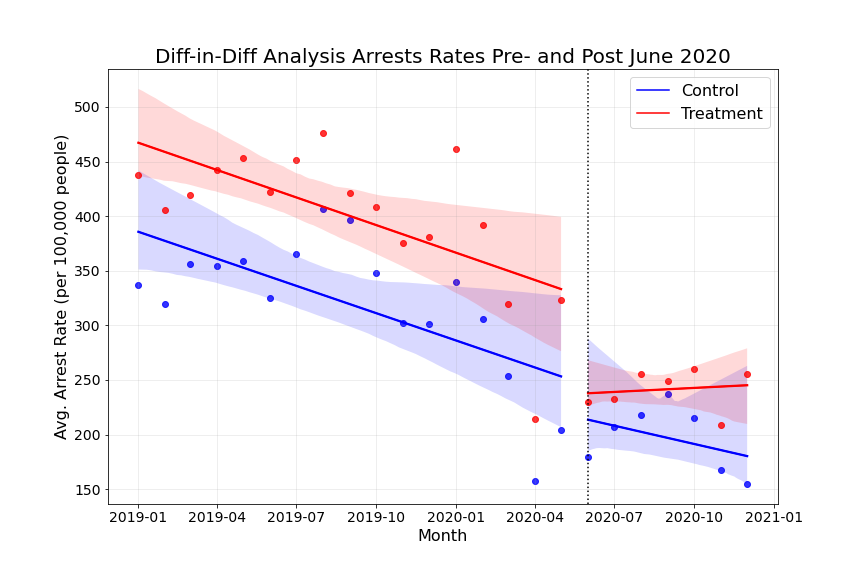
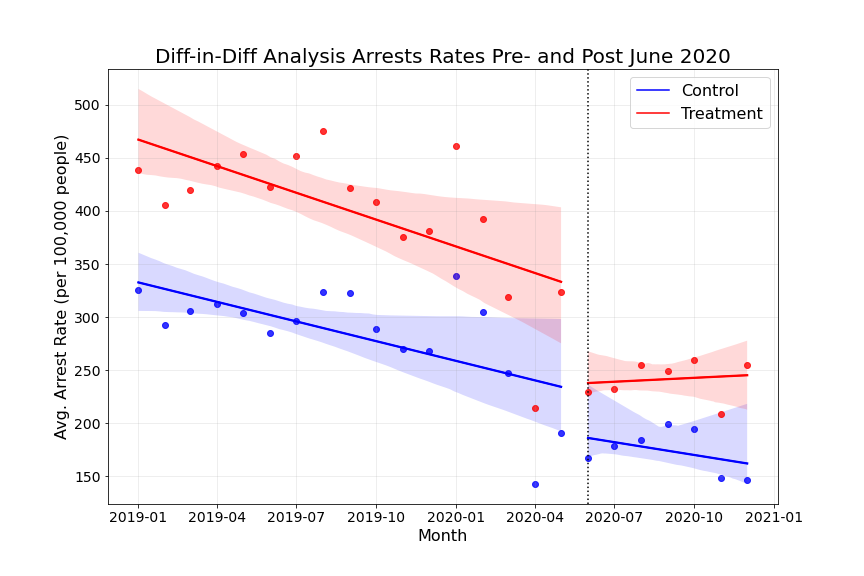
update the violent arrest function

diff --git a/10_code/10_preprocessing.py b/10_code/10_preprocessing.py
@@ -11,12 +11,14 @@ def load_data():
     :return:
     """
     with ZipFile(ARREST_DATA) as zip_file:
-        dfs = {text_file.filename: pd.read_stata(zip_file.open(text_file.filename))
-               for text_file in zip_file.infolist()
-               if text_file.filename.endswith('.dta')}
+        dfs = {
+            text_file.filename: pd.read_stata(zip_file.open(text_file.filename))
+            for text_file in zip_file.infolist()
+            if text_file.filename.endswith(".dta")
+        }
 
-    a_2019 = dfs['ucr_arrests_monthly_all_crimes_race_sex_2019.dta'].copy()
-    a_2020 = dfs['ucr_arrests_monthly_all_crimes_race_sex_2020.dta'].copy()
+    a_2019 = dfs["ucr_arrests_monthly_all_crimes_race_sex_2019.dta"].copy()
+    a_2020 = dfs["ucr_arrests_monthly_all_crimes_race_sex_2020.dta"].copy()
 
     return a_2019, a_2020
 
@@ -43,7 +45,7 @@ def match_columns(df1, df2):
         raise ValueError("Take a look! The dataframes are out of shape!")
 
 
-def filter_by_state_concat(df1, df2, state='CO'):
+def filter_by_state_concat(df1, df2, state="CO"):
     """
 
     :return:
@@ -58,11 +60,19 @@ def filter_columns(col_type: str, df):
 
     :return:
     """
-    violent_crime_c = ['agg_assault_tot', 'arson_tot', 'burglary_tot',
-                       'manslaught_neg_tot', 'murder_tot', 'oth_assault_tot',
-                       'oth_sex_off_tot', 'rape_tot', 'robbery_tot']
-    cols = [col for col in df.columns if col.endswith('tot_' + col_type)]
-    violent_s = [i + '_' + col_type for i in violent_crime_c]
+    violent_crime_c = [
+        "agg_assault_tot",
+        "arson_tot",
+        "burglary_tot",
+        "manslaught_neg_tot",
+        "murder_tot",
+        "oth_assault_tot",
+        "oth_sex_off_tot",
+        "rape_tot",
+        "robbery_tot",
+    ]
+    cols = [col for col in df.columns if col.endswith("tot_" + col_type)]
+    violent_s = [i + "_" + col_type for i in violent_crime_c]
     non_violent_columns = list(set(cols).difference(set(violent_s)))
     return non_violent_columns
 
@@ -70,37 +80,46 @@ def filter_columns(col_type: str, df):
 def data_with_relevant_columns(df):
     all_cols = df.columns.to_list()
     general_cols = all_cols[:14]
-    categories = ['arrests', 'black', 'white', 'asian', 'male', 'female', 'amer_ind']
+    categories = ["arrests", "black", "white", "asian", "male", "female", "amer_ind"]
     relevant_cols = general_cols
     for cat in categories:
         col = filter_columns(cat, df)
         relevant_cols += col
     return df[relevant_cols]
 
+
 ## Specific for violent arrests
 def filter_columns_violent(col_type: str, df):
     """
     :return:
     """
-    violent_crime_c = ['agg_assault_tot', 'arson_tot', 'burglary_tot',
-                       'manslaught_neg_tot', 'murder_tot', 'oth_assault_tot',
-                       'oth_sex_off_tot', 'rape_tot', 'robbery_tot']
-    cols = [col for col in df.columns if col.endswith('tot_' + col_type)]
-    violent_s = [i + '_' + col_type for i in violent_crime_c]
+    violent_crime_c = [
+        "agg_assault_tot",
+        "arson_tot",
+        "burglary_tot",
+        "manslaught_neg_tot",
+        "murder_tot",
+        "oth_assault_tot",
+        "oth_sex_off_tot",
+        "rape_tot",
+        "robbery_tot",
+    ]
+    cols = [col for col in df.columns if col.endswith("tot_" + col_type)]
+    violent_s = [i + "_" + col_type for i in violent_crime_c]
     non_violent_columns = list(set(cols).difference(set(violent_s)))
     return violent_s
 
-## Specific for violent arrests 
+
+## Specific for violent arrests
 def data_with_relevant_columns_violent(df):
     all_cols = df.columns.to_list()
     general_cols = all_cols[:14]
-    categories = ['arrests', 'black', 'white', 'asian', 'male', 'female', 'amer_ind']
+    categories = ["arrests", "black", "white", "asian", "male", "female", "amer_ind"]
     relevant_cols = general_cols
     for cat in categories:
         col = filter_columns_violent(cat, df)
         relevant_cols += col
     return df[relevant_cols]
-
 
 
 def population(df, group1, group2, save=False):
@@ -112,11 +131,12 @@ def population(df, group1, group2, save=False):
     :param group2:
     :return:
     """
-    population_data = (df
-                       .groupby(group1, as_index=False)['population']
-                       .max()
-                       .groupby(group2, as_index=False)[['population']]
-                       .sum())
+    population_data = (
+        df.groupby(group1, as_index=False)["population"]
+        .max()
+        .groupby(group2, as_index=False)[["population"]]
+        .sum()
+    )
     if save:
         population_data.to_csv("../20_intermediate_files/population.csv", index=False)
     return population_data
@@ -138,98 +158,182 @@ def create_new_columns(df):
     non_violent_female = filter_columns("female", df)
 
     # Add date column for easier filtering by date
-    df['year'] = df['year'].astype(str)
-    df['day'] = "01"
-    df['month'] = df.month.str.capitalize()
-    df['date'] = pd.to_datetime(df.year + "-" + df.month +
-                                "-" + df.day, format="%Y-%B-%d")
+    df["year"] = df["year"].astype(str)
+    df["day"] = "01"
+    df["month"] = df.month.str.capitalize()
+    df["date"] = pd.to_datetime(
+        df.year + "-" + df.month + "-" + df.day, format="%Y-%B-%d"
+    )
     df.drop("day", axis=1, inplace=True)
 
     # Sum over all non violent crimes:
-    df['grand_total_arrests'] = np.sum(merged[non_violent_arrests], axis=1)
-    df['grand_total_black'] = np.sum(merged[non_violent_black], axis=1)
-    df['grand_total_white'] = np.sum(merged[non_violent_white], axis=1)
-    df['grand_total_asian'] = np.sum(merged[non_violent_asian], axis=1)
-    df['grand_total_amer_ind'] = np.sum(merged[non_violent_amer_ind], axis=1)
-    df['grand_total_male'] = np.sum(merged[non_violent_male], axis=1)
-    df['grand_total_female'] = np.sum(merged[non_violent_female], axis=1)
+    df["grand_total_arrests"] = np.sum(merged[non_violent_arrests], axis=1)
+    df["grand_total_black"] = np.sum(merged[non_violent_black], axis=1)
+    df["grand_total_white"] = np.sum(merged[non_violent_white], axis=1)
+    df["grand_total_asian"] = np.sum(merged[non_violent_asian], axis=1)
+    df["grand_total_amer_ind"] = np.sum(merged[non_violent_amer_ind], axis=1)
+    df["grand_total_male"] = np.sum(merged[non_violent_male], axis=1)
+    df["grand_total_female"] = np.sum(merged[non_violent_female], axis=1)
 
     # Crime rate:
-    df['arrest_rate_gt_arrests'] = (df['grand_total_arrests'] / df['population'] * 100_000)
-    df['arrest_rate_gt_black'] = (df['grand_total_black'] / df['population'] * 100_000)
-    df['arrest_rate_gt_white'] = (df['grand_total_white'] / df['population'] * 100_000)
-    df['arrest_rate_gt_asian'] = (df['grand_total_asian'] / df['population'] * 100_000)
-    df['arrest_rate_gt_amer_ind'] = (df['grand_total_amer_ind'] / df['population'] * 100_000)
-    df['arrest_rate_gt_male'] = (df['grand_total_male'] / df['population'] * 100_000)
-    df['arrest_rate_gt_female'] = (df['grand_total_female'] / df['population'] * 100_000)
+    df["arrest_rate_gt_arrests"] = (
+        df["grand_total_arrests"] / df["population"] * 100_000
+    )
+    df["arrest_rate_gt_black"] = df["grand_total_black"] / df["population"] * 100_000
+    df["arrest_rate_gt_white"] = df["grand_total_white"] / df["population"] * 100_000
+    df["arrest_rate_gt_asian"] = df["grand_total_asian"] / df["population"] * 100_000
+    df["arrest_rate_gt_amer_ind"] = (
+        df["grand_total_amer_ind"] / df["population"] * 100_000
+    )
+    df["arrest_rate_gt_male"] = df["grand_total_male"] / df["population"] * 100_000
+    df["arrest_rate_gt_female"] = df["grand_total_female"] / df["population"] * 100_000
 
     # Drop redundant columns:
-    df.drop(non_violent_arrests + non_violent_black +
-            non_violent_asian + non_violent_male +
-            non_violent_female + non_violent_white +
-            non_violent_amer_ind,
-            axis=1, inplace=True)
+    df.drop(
+        non_violent_arrests
+        + non_violent_black
+        + non_violent_asian
+        + non_violent_male
+        + non_violent_female
+        + non_violent_white
+        + non_violent_amer_ind,
+        axis=1,
+        inplace=True,
+    )
 
     # Add post treatment and treatment columns:
     post_treatment = "2020-June-01"
     treatment_group = "08031"
-    condition1 = df['date'] >= post_treatment
-    condition2 = df['fips_state_county_code'] == treatment_group
-    df['post_treatment'] = np.where(condition1, 1, 0)
-    df['treatment'] = np.where(condition2, 1, 0)
+    condition1 = df["date"] >= post_treatment
+    condition2 = df["fips_state_county_code"] == treatment_group
+    df["post_treatment"] = np.where(condition1, 1, 0)
+    df["treatment"] = np.where(condition2, 1, 0)
     return df
 
 
-if __name__ == '__main__':
+def create_new_columns_vio(df):
+    """
+    :param df:
+    :return:
+    """
+    # Lists of non-violent crimes per demographic group:
+    non_violent_arrests = filter_columns_violent("arrests", df)
+    non_violent_black = filter_columns_violent("black", df)
+    non_violent_white = filter_columns_violent("white", df)
+    non_violent_asian = filter_columns_violent("asian", df)
+    non_violent_amer_ind = filter_columns_violent("amer_ind", df)
+    non_violent_male = filter_columns_violent("male", df)
+    non_violent_female = filter_columns_violent("female", df)
+
+    # Add date column for easier filtering by date
+    df["year"] = df["year"].astype(str)
+    df["day"] = "01"
+    df["month"] = df.month.str.capitalize()
+    df["date"] = pd.to_datetime(
+        df.year + "-" + df.month + "-" + df.day, format="%Y-%B-%d"
+    )
+    df.drop("day", axis=1, inplace=True)
+
+    # Sum over all non violent crimes:
+    df["grand_total_arrests"] = np.sum(df[non_violent_arrests], axis=1)
+    df["grand_total_black"] = np.sum(df[non_violent_black], axis=1)
+    df["grand_total_white"] = np.sum(df[non_violent_white], axis=1)
+    df["grand_total_asian"] = np.sum(df[non_violent_asian], axis=1)
+    df["grand_total_amer_ind"] = np.sum(df[non_violent_amer_ind], axis=1)
+    df["grand_total_male"] = np.sum(df[non_violent_male], axis=1)
+    df["grand_total_female"] = np.sum(df[non_violent_female], axis=1)
+
+    # Crime rate:
+    df["arrest_rate_gt_arrests"] = (
+        df["grand_total_arrests"] / df["population"] * 100_000
+    )
+    df["arrest_rate_gt_black"] = df["grand_total_black"] / df["population"] * 100_000
+    df["arrest_rate_gt_white"] = df["grand_total_white"] / df["population"] * 100_000
+    df["arrest_rate_gt_asian"] = df["grand_total_asian"] / df["population"] * 100_000
+    df["arrest_rate_gt_amer_ind"] = (
+        df["grand_total_amer_ind"] / df["population"] * 100_000
+    )
+    df["arrest_rate_gt_male"] = df["grand_total_male"] / df["population"] * 100_000
+    df["arrest_rate_gt_female"] = df["grand_total_female"] / df["population"] * 100_000
+
+    # Drop redundant columns:
+    df.drop(
+        non_violent_arrests
+        + non_violent_black
+        + non_violent_asian
+        + non_violent_male
+        + non_violent_female
+        + non_violent_white
+        + non_violent_amer_ind,
+        axis=1,
+        inplace=True,
+    )
+
+    # Add post treatment and treatment columns:
+    post_treatment = "2020-June-01"
+    treatment_group = "08031"
+    condition1 = df["date"] >= post_treatment
+    condition2 = df["fips_state_county_code"] == treatment_group
+    df["post_treatment"] = np.where(condition1, 1, 0)
+    df["treatment"] = np.where(condition2, 1, 0)
+    return df
+
+
+if __name__ == "__main__":
     DATA_PATH = "../00_source_data"
-    ARREST_DATA = os.path.join(DATA_PATH,
-                               'ucr_arrests_monthly_all'
-                               '_crimes_race_sex_1974_2020_dta.zip')
+    ARREST_DATA = os.path.join(
+        DATA_PATH, "ucr_arrests_monthly_all" "_crimes_race_sex_1974_2020_dta.zip"
+    )
     arrests_2019, arrests_2020 = load_data()
     arrests_2019, arrests_2020 = match_columns(arrests_2019, arrests_2020)
     arrest_concat = filter_by_state_concat(arrests_2019, arrests_2020)
 
     # Impute fips code based on agency name
-    arrest_concat.loc[(arrest_concat['fips_state_county_code'] == '') &
-                      (arrest_concat['agency_name'] == 'us secret service, denve'),
-                      'fips_state_county_code'] = '08031'
+    arrest_concat.loc[
+        (arrest_concat["fips_state_county_code"] == "")
+        & (arrest_concat["agency_name"] == "us secret service, denve"),
+        "fips_state_county_code",
+    ] = "08031"
 
     # Save ori and fips codes
-    (arrest_concat[['ori', 'fips_state_county_code']]
-     .drop_duplicates()
-     .to_csv("../20_intermediate_files/ori.csv", index=False))
+    (
+        arrest_concat[["ori", "fips_state_county_code"]]
+        .drop_duplicates()
+        .to_csv("../20_intermediate_files/ori.csv", index=False)
+    )
 
     # Filter by fips code
-    fips_codes = ['08031', '08059', '08005', '08001', '08014', '08035', '08013']
+    fips_codes = ["08031", "08059", "08005", "08001", "08014", "08035", "08013"]
     arrest_concat = arrest_concat.query(f"fips_state_county_code in {fips_codes}")
 
     # Filter columns
-    arrest_concat = data_with_relevant_columns(arrest_concat)
+    arrest_concat_nonvio = data_with_relevant_columns(arrest_concat)
 
     # Aggregation
-    group1 = ['month', 'year', 'fips_state_county_code', 'fips_place_code']
-    group2 = ['month', 'year', 'fips_state_county_code']
-    population_norm = population(arrest_concat, group1, group2)
-    cols_to_aggregate = arrest_concat.columns.to_list()[14:]
+    group1 = ["month", "year", "fips_state_county_code", "fips_place_code"]
+    group2 = ["month", "year", "fips_state_county_code"]
+    population_norm = population(arrest_concat_nonvio, group1, group2)
+    cols_to_aggregate = arrest_concat_nonvio.columns.to_list()[14:]
 
-    arrests_agg = (arrest_concat
-                   .groupby(group2, as_index=False)[cols_to_aggregate]
-                   .sum())
+    arrests_agg = arrest_concat_nonvio.groupby(group2, as_index=False)[
+        cols_to_aggregate
+    ].sum()
 
-    merged = pd.merge(arrests_agg,
-                      population_norm,
-                      on=group2)
+    merged = pd.merge(arrests_agg, population_norm, on=group2)
 
     final_df = create_new_columns(merged)
     final_df.to_csv("../20_intermediate_files/aggregated.csv", index=False)
-    ## Violent related 
-    ## other things are the same only the columns are different 
+
+    ## Violent related
+    ## other things are the same only the columns are different
     arrest_concat_vio = data_with_relevant_columns_violent(arrest_concat)
-    arrests_agg_vio = (arrest_concat_vio
-                   .groupby(group2, as_index=False)[cols_to_aggregate]
-                   .sum())
-    merged_vio = pd.merge(arrests_agg_vio,
-                      population_norm,
-                      on=group2)
-    final_df_vio = create_new_columns(merged_vio)
-    final_df_vio.to_csv("../20_intermediate_files/aggregated_violent_arrest.csv", index=False)
+    cols_to_aggregate_vio = arrest_concat_vio.columns.to_list()[14:]
+
+    arrests_agg_vio = arrest_concat_vio.groupby(group2, as_index=False)[
+        cols_to_aggregate_vio
+    ].sum()
+    merged_vio = pd.merge(arrests_agg_vio, population_norm, on=group2)
+    final_df_vio = create_new_columns_vio(merged_vio)
+    final_df_vio.to_csv(
+        "../20_intermediate_files/aggregated_violent_arrest.csv", index=False
+    )
